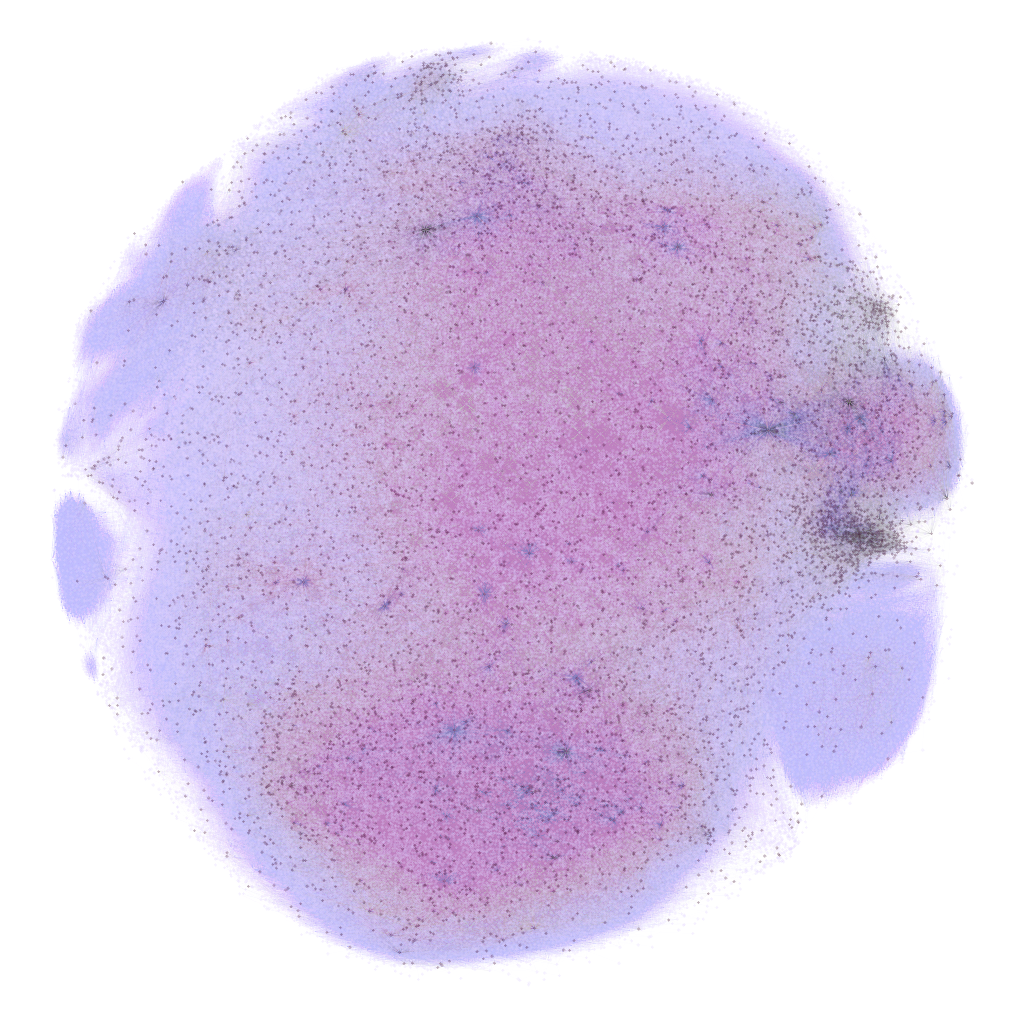
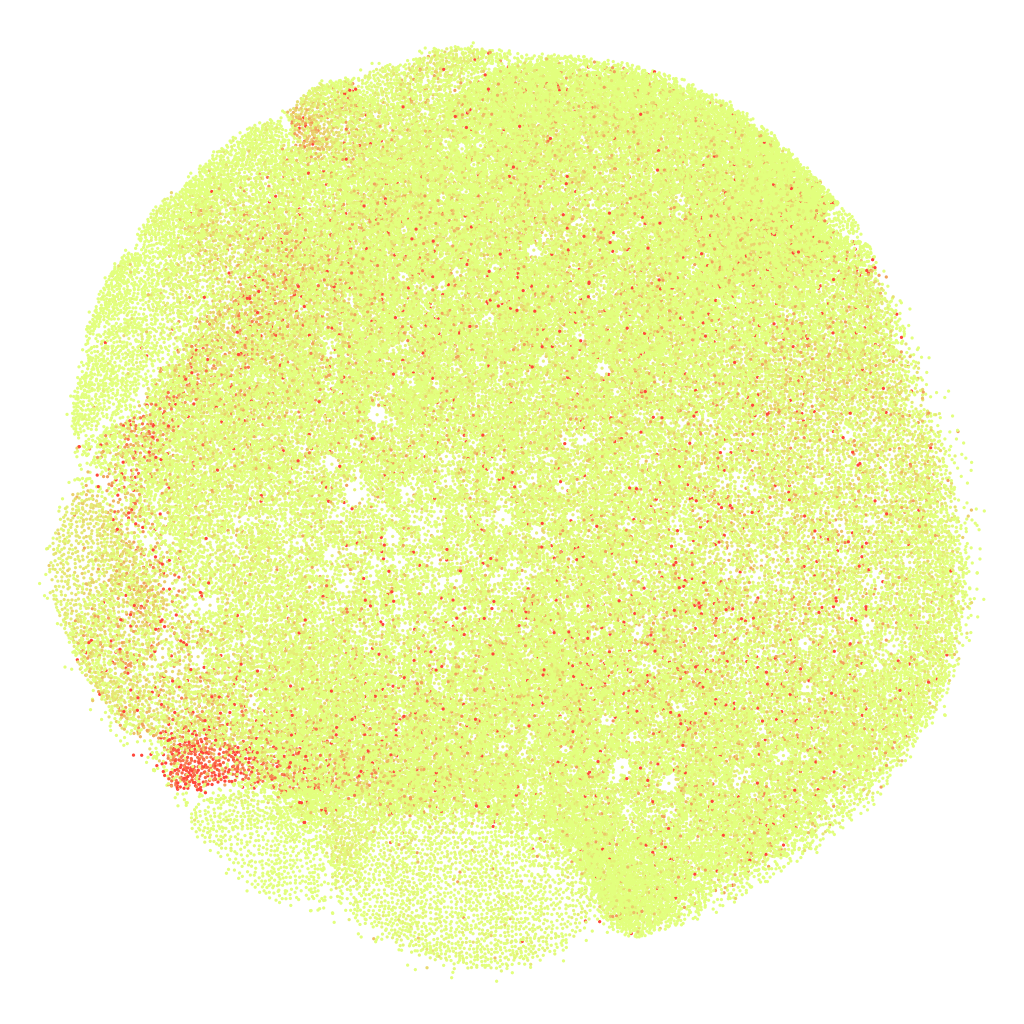
Removes retweet edge bug.

diff --git a/AbusiveUsersOSNs/twitter_analysis/get_tweets_table.py b/AbusiveUsersOSNs/twitter_analysis/get_tweets_table.py
@@ -14,13 +14,13 @@ csv_writer = csv.writer(f)
 csv_writer.writerow(["user_id", "screen_name",
                      "tweet_id", "tweet_text", "tweet_creation", "tweet_fav", "tweet_rt",
                      "rp_flag", "rp_status", "rp_user",
-                     "qt_flag", "qt_user_id", "qt_status_id", "qt_text", "qt_creation", "qt_fav",  "qt_rt",
+                     "qt_flag", "qt_user_id", "qt_status_id", "qt_text", "qt_creation", "qt_fav", "qt_rt",
                      "rt_flag", "rt_user_id", "rt_status_id", "rt_text", "rt_creation", "rt_fav", "rt_rt"])
 
 q = """MATCH (u:User) where u.virtual="F" return count(u) as number"""
 df = graph.data(q)
 max_entries = df[0]["number"]
-aux = (list(range(max_entries,0,-10000)) + [0])[::-1]
+aux = (list(range(max_entries, 0, -10000)) + [0])[::-1]
 ranges = zip(aux[:-1], aux[1:])
 
 for lower, upper in ranges:

diff --git a/AbusiveUsersOSNs/twitter_analysis/get_users_to_annotate.py b/AbusiveUsersOSNs/twitter_analysis/get_users_to_annotate.py
@@ -1,4 +1,30 @@
-
-
-
 import networkx as nx
+import numpy as np
+import csv
+
+k = 1000
+
+nx_graph = nx.read_graphml("./users_infected_diffusion1.graphml")
+diffusion_slur = nx.get_node_attributes(nx_graph, name="diffusion_slur")
+screen_names = nx.get_node_attributes(nx_graph, name="screen_name")
+
+sum_vals = 0
+for key in diffusion_slur:
+    sum_vals += diffusion_slur[key] ** 2
+
+items = list(diffusion_slur.items())
+p = []
+users = []
+for key, item in items:
+    p.append((item**2)/sum_vals)
+    users.append(key)
+
+users_to_annotate = np.random.choice(users, size=k, replace=False, p=p)
+
+f = open("./users_to_annotate.csv", "w")
+csv_writer = csv.writer(f)
+
+csv_writer.writerow(["user_id", "screen_name", "diffusion_slur"])
+
+for user in users_to_annotate:
+    csv_writer.writerow([int(user), screen_names[user], diffusion_slur[user]])

diff --git a/AbusiveUsersOSNs/twitter_analysis/get_diffusion_graph.py b/AbusiveUsersOSNs/twitter_analysis/get_diffusion_graph.py
@@ -1,10 +1,10 @@
-import networkx as nx
 import numpy as np
+import networkx as nx
 
 """ This implements the a diffusion based on DeGroot's model proposed by Golub & Jackson (2010). """
 
 initial_belief = 1
-k = 2
+k = 1
 
 np.random.seed(1)
 graph = nx.read_graphml("./users_infected.graphml")
@@ -35,4 +35,4 @@ for node, belief in zip(node_list, beliefs):
     final_beliefs_dict[node] = float(belief)
 
 nx.set_node_attributes(graph, name="diffusion_slur", values=final_beliefs_dict)
-nx.write_graphml(graph, "./users_infected_diffusion.graphml")
+nx.write_graphml(graph, "./users_infected_diffusion{0}.graphml".format(k))

diff --git a/AbusiveUsersOSNs/twitter_analysis/get_user_graph.py b/AbusiveUsersOSNs/twitter_analysis/get_user_graph.py
@@ -14,7 +14,7 @@ for node in graph.data("""MATCH (a:User) WHERE a.virtual="F" RETURN a as val""")
     nx_graph.add_node(n["id"], **n)
 
 for node in graph.data(
-        """MATCH (a:User)-->(b:User) WHERE a.virtual="F" AND b.virtual="F" RETURN a.id as a, b.id as b"""):
+        """MATCH (a:User)-[:retweeted]->(b:User) WHERE a.virtual="F" AND b.virtual="F" RETURN a.id as a, b.id as b"""):
     nx_graph.add_edge(node['a'], node['b'])
 
 nx.write_graphml(nx_graph, "./users.graphml")
